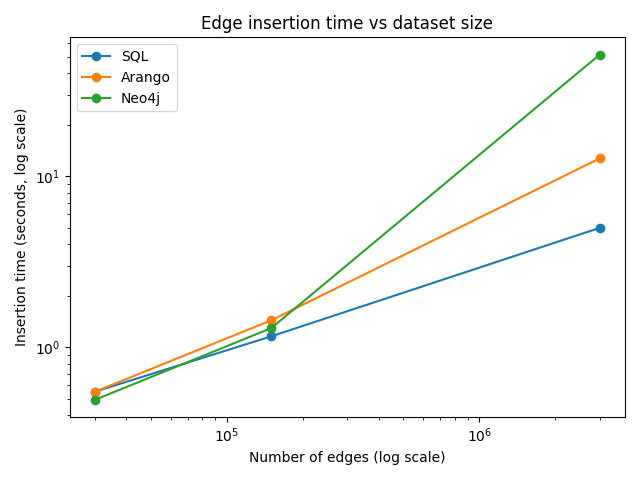
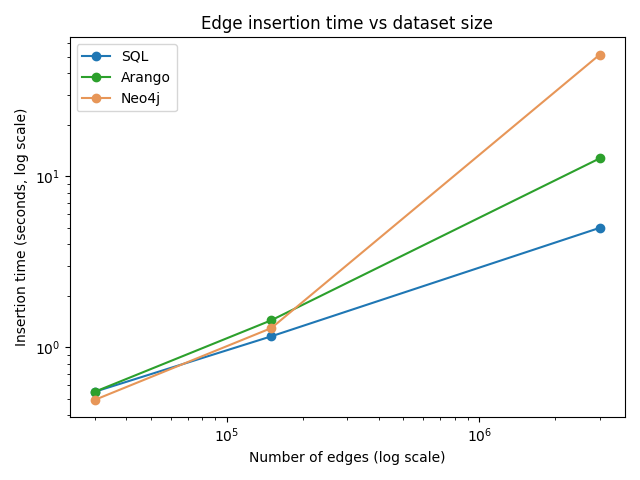
oopsie x2

diff --git a/src/tools/ploter_queries.py b/src/tools/ploter_queries.py
@@ -101,7 +101,7 @@ plt.show()
 
 plt.figure()
 for db, vals in insert_edges.items():
-    plt.plot(sizes, vals, marker='o', label=db)
+    plt.plot(sizes, vals, marker='o', label=db, color=colors[db])
 plt.xscale('log')
 plt.yscale('log')
 plt.xlabel("Number of edges (log scale)")
